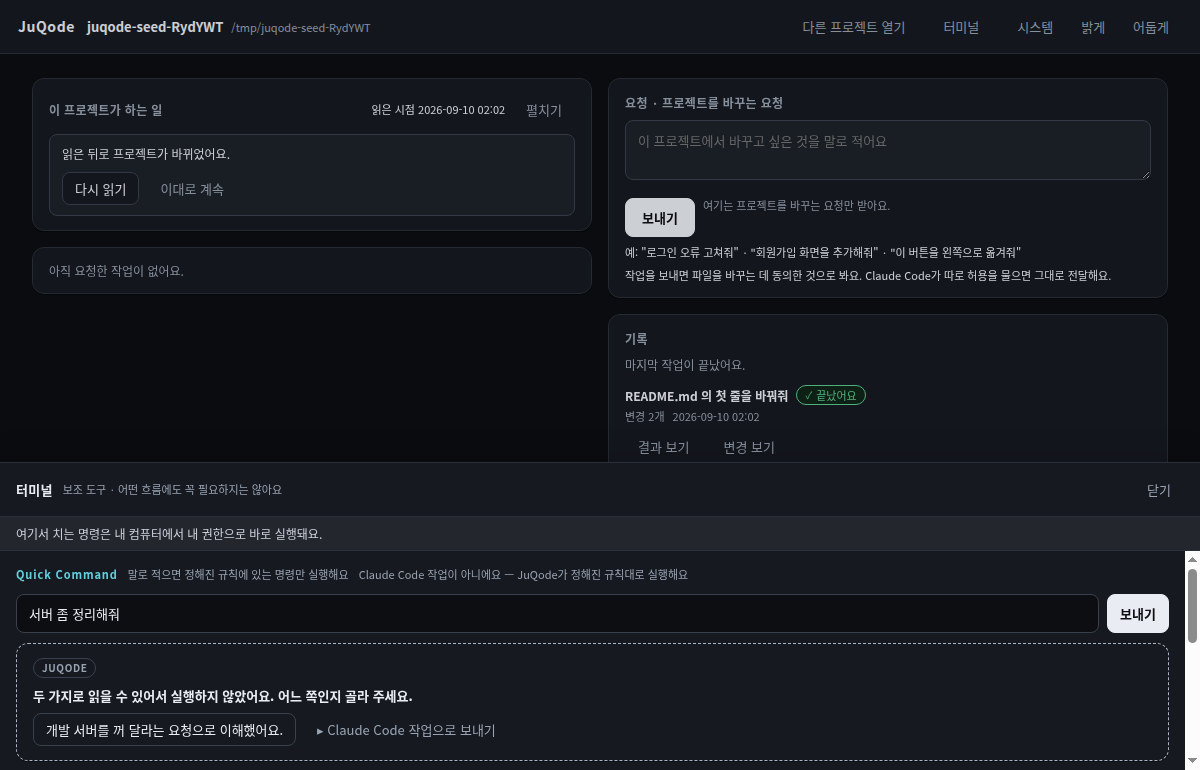
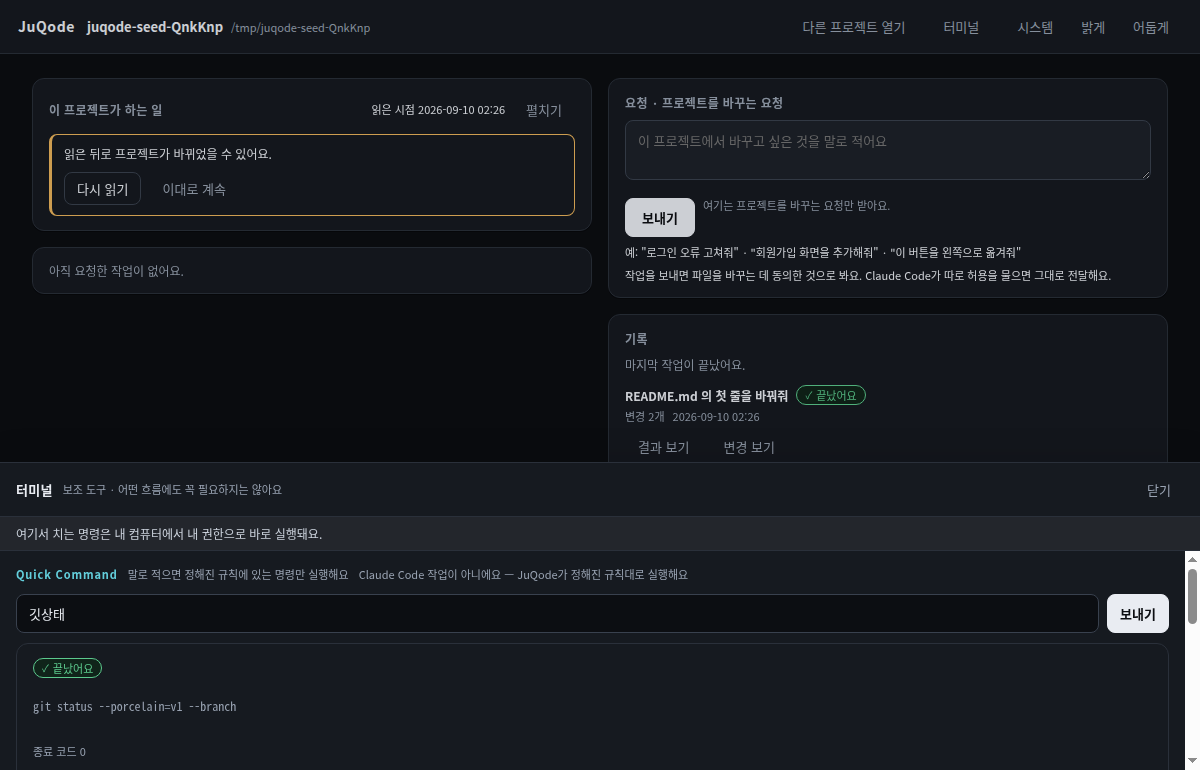
fix(qa): 배치 12 제품 QA 후속 2 — 실제로 실행된 Quick Command 의 증거
e2e 가 Quick Command 를 한 번도 실행하지 않았다. 그래서 실행 중·끝났어요·출력
카드가 이 저장소 어디에도 그려진 적이 없는데 배치 문서는 카드 전부가 들어갔다고
적었다. 고정·읽기 전용 벡터인 깃상태를 실제로 돌려서 종료 코드와 진짜 출력이
카드에 나오는 것을 확인한다.

15 §F 대로 상태 칩 하나가 상태를 글자로 나른다 — 같은 문장을 제목과 칩에 두 번
쓰던 것과, 실행 중에는 칩이 아예 없던 것을 같이 고쳤다.

15 SC-02 갱신 중 이 없었다. 다시 읽기를 눌러도 화면이 몇 초 동안 그대로였고
버튼은 계속 눌렸다. 이제 헤더가 다시 읽는 중 이라고 말하고 버튼은 사라진다 —
이전 해석은 그대로 보인다(F-C1-03).

그리고 실패한 갱신이 오래됨 판정을 버렸다. 실패한 읽기는 해시를 움직이지
않았으니 판정은 여전히 유효한데, 제품이 아는 것을 말하지 않게 됐다.

441 tests · e2e 3종.

diff --git a/app/renderer/screens/brief.js b/app/renderer/screens/brief.js
@@ -56,7 +56,12 @@ export function renderBrief(card, interp, opts = {}) {
    * automatic re-read, so this button is the only thing that starts one. */
   /* …but not twice. When the 오래됨 band is up it carries 다시 읽기 as its own call to action,
    * and two identical buttons in one card make the reader choose between the same thing. */
-  if (interp && opts.onReread && !opts.stale?.changed) {
+  if (interp && opts.rereading) {
+    /* `15` SC-02 갱신 중: the OLD interpretation stays visible (F-C1-03) and the header says a
+     * re-read is under way. Nothing moved on screen for the seconds the narrative pass takes,
+     * and the button stayed pressable — so it could be pressed again and again. */
+    head.appendChild(el('span', 'xs mut2 rereading', C.gap.briefRereading));
+  } else if (interp && opts.onReread && !opts.stale?.changed) {
     head.appendChild(btn('btn sm ghost', C.brief.reread, opts.onReread));
   }
   if (interp && opts.onFold) {
@@ -89,7 +94,8 @@ export function renderBrief(card, interp, opts = {}) {
     const band = el('div', 'staleband');
     band.appendChild(el('div', 'sm', staleLine(opts.stale.days)));
     const acts = el('div', 'row-acts');
-    if (opts.onReread) acts.appendChild(btn('btn sm', C.brief.reread, opts.onReread));
+    if (opts.rereading) acts.appendChild(el('span', 'xs mut', C.gap.briefRereading));
+    else if (opts.onReread) acts.appendChild(btn('btn sm', C.brief.reread, opts.onReread));
     /* Dismissing the notice must not take 다시 읽기 with it. `band.remove()` left the state set,
      * so the header kept suppressing its own button and SC-02 had no 다시 읽기 control at all
      * until the user left the screen and came back. `15` lists it unconditionally. */

diff --git a/app/renderer/screens/sc02.js b/app/renderer/screens/sc02.js
@@ -79,18 +79,24 @@ export function renderSC02(root, api, nav, state) {
     /* 이대로 계속 dismisses the ANNOUNCEMENT. Clearing the verdict is what brings 다시 읽기 back
      * to the header, so the user is never left on SC-02 with no way to re-read. */
     onKeepStale: () => { state.stale = null; paint(); },
+    rereading: state.rereading,
     onReread: () => {
       /* `19` §C1 ⑤ · D-132: the ONLY thing that starts a re-read. It is not automatic, and the
-       * old Brief stays on screen while the new one is being taken. */
+       * old Brief stays on screen while the new one is being taken (`15` 갱신 중, F-C1-03). */
+      if (state.rereading) return;                 // pressing it again starts nothing
       state.refreshFailed = null;
+      state.rereading = true;
+      paint();
       api.interpret(p.id).then((r) => {
+        state.rereading = false;
         if (r?.ok) {
           state.interpretation = r.interpretation;
           state.narrative = r.narrative ?? null;
           state.refreshFailed = r.refreshFailed ?? null;
-          /* A re-read that succeeded is not stale by definition; one that failed did not move
-           * the hash either, so the verdict is dropped in both cases and re-asked on next open. */
-          state.stale = null;
+          /* A re-read that SUCCEEDED is not stale by definition. One that FAILED did not read
+           * anything, so the hash it was stale against has not moved and the verdict still
+           * stands — dropping it there stopped the product saying what it still knew. */
+          if (!state.refreshFailed) state.stale = null;
           state.briefFolded = false;
         }
         paint();

diff --git a/app/renderer/screens/td01.js b/app/renderer/screens/td01.js
@@ -251,11 +251,9 @@ function runCard(api, state, repaint) {
   };
   const [cls, title] = RESULT[r.state] ?? RESULT.unknown;
   const head = el('div', 'td01-runhead');
-  head.appendChild(el('span', 'ct', title));
-  /* `15` §F: a state chip carries its state as TEXT, never as colour alone — so every state gets
-   * one, including the ones with no colour of their own. It used to print the same sentence
-   * twice for the states that had a class and nothing at all for 실행 중. */
-  head.appendChild(el('span', `chip ${cls || 'unavail'}`, r.ended ? C.qc.exit : C.qc.running));
+  /* ONE chip, carrying the state as TEXT (`15` §F) — not a heading and a chip saying the same
+   * sentence twice, and not a state with no chip at all, which is what 실행 중 had. */
+  head.appendChild(el('span', `chip ${cls || 'unavail'}`, title));
   card.appendChild(head);
   /* `15` TD-01: 계속 실행 중 — 개발 서버 · 시작 4분 전. The start time is what makes a
    * long-running card readable; `run.js` keeps it and the card never showed it. */

diff --git a/app/renderer/copy.js b/app/renderer/copy.js
@@ -361,6 +361,10 @@ export const C = {
      * `brief.failNote` for a project that never read, and nothing for the case where an OLD
      * Brief is still on screen underneath — which is the whole point of the state. */
     briefRefreshKept: '아래는 지난번에 읽은 내용이에요. 그대로 남겨 두었어요.',
+    /* `15` SC-02 갱신 중: the old interpretation stays visible until it is replaced (F-C1-03),
+     * and the header says a re-read is happening. `18` has `brief.interpreting` for a FIRST
+     * read and nothing for a re-read over a Brief that is still on screen. */
+    briefRereading:   '다시 읽는 중…',
     /* `18` brief.stale is written as `3일 전에 읽은 내용이에요…` — it presumes the read is a day
      * or more old. Staleness is really about the HASH, not the age, so a project can change
      * minutes after it was read; "0일 전에 읽은 내용이에요" is not Korean anyone writes. This

diff --git a/app/renderer/renderer.js b/app/renderer/renderer.js
@@ -24,6 +24,7 @@ const state = { project: null, interpretation: null, recent: [], store: { ok: fa
                  * project is REOPENED with an interpretation already there — D-132: 다시 열기 →
                  * Brief 접힌 채로. */
                 stale: null, briefFolded: false, refreshFailed: null, narrative: null,
+                rereading: false,
                 /* TD-01 · the drawer and its Quick Command card. It lives OUTSIDE `#root`, so
                  * its state survives every screen render — `15`: 닫으면 화면 상태가 보존된다. */
                 drawerOpen: false, qcPhrase: '', qcCard: null, qcRun: null,
